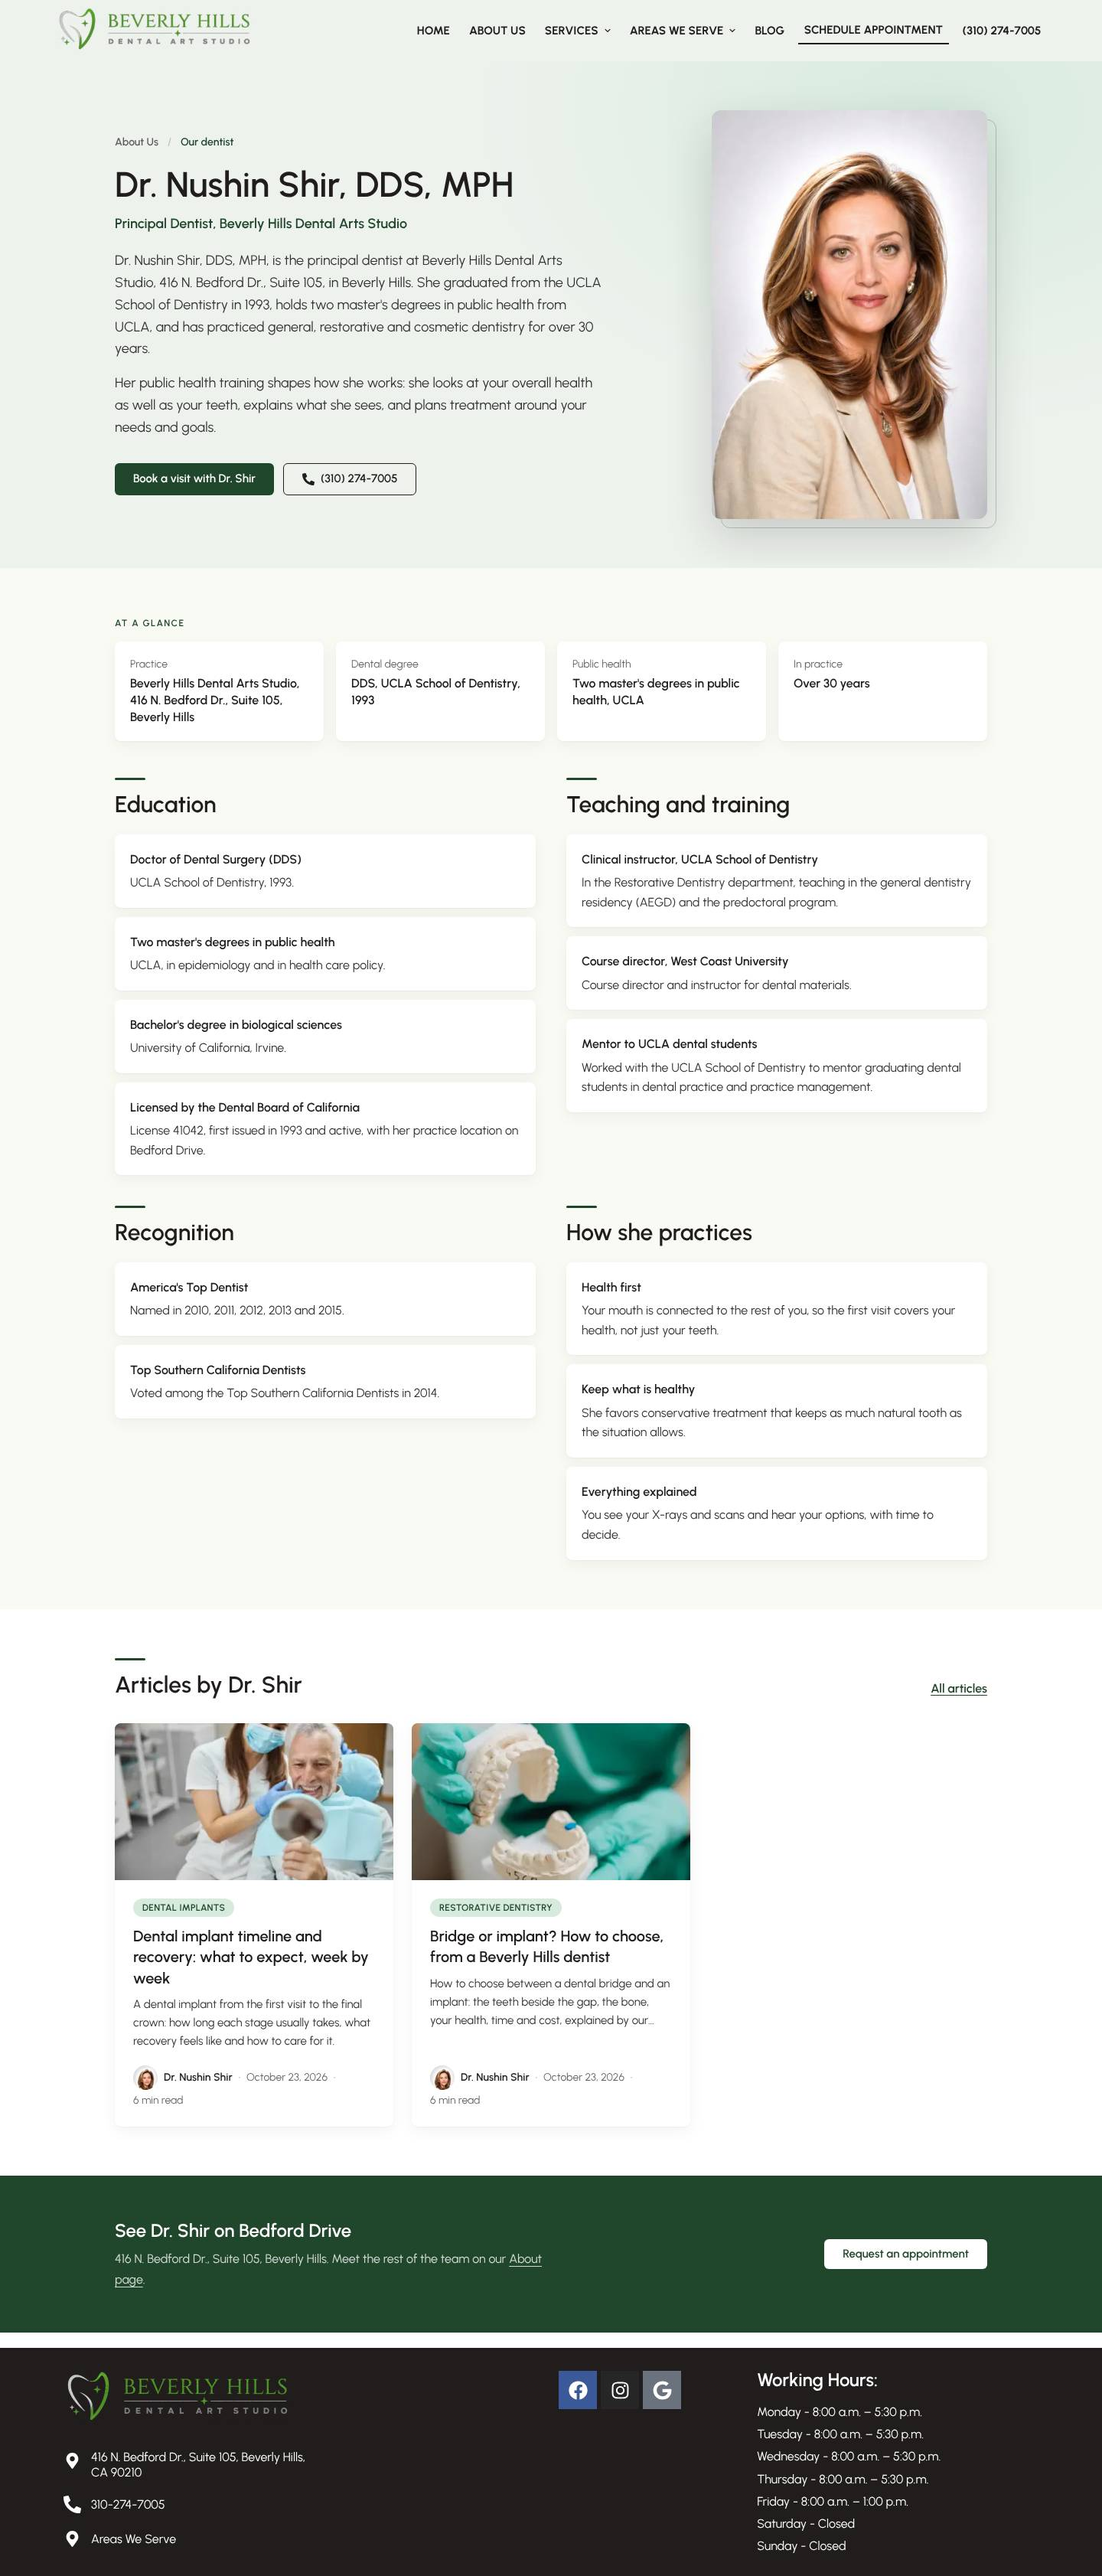
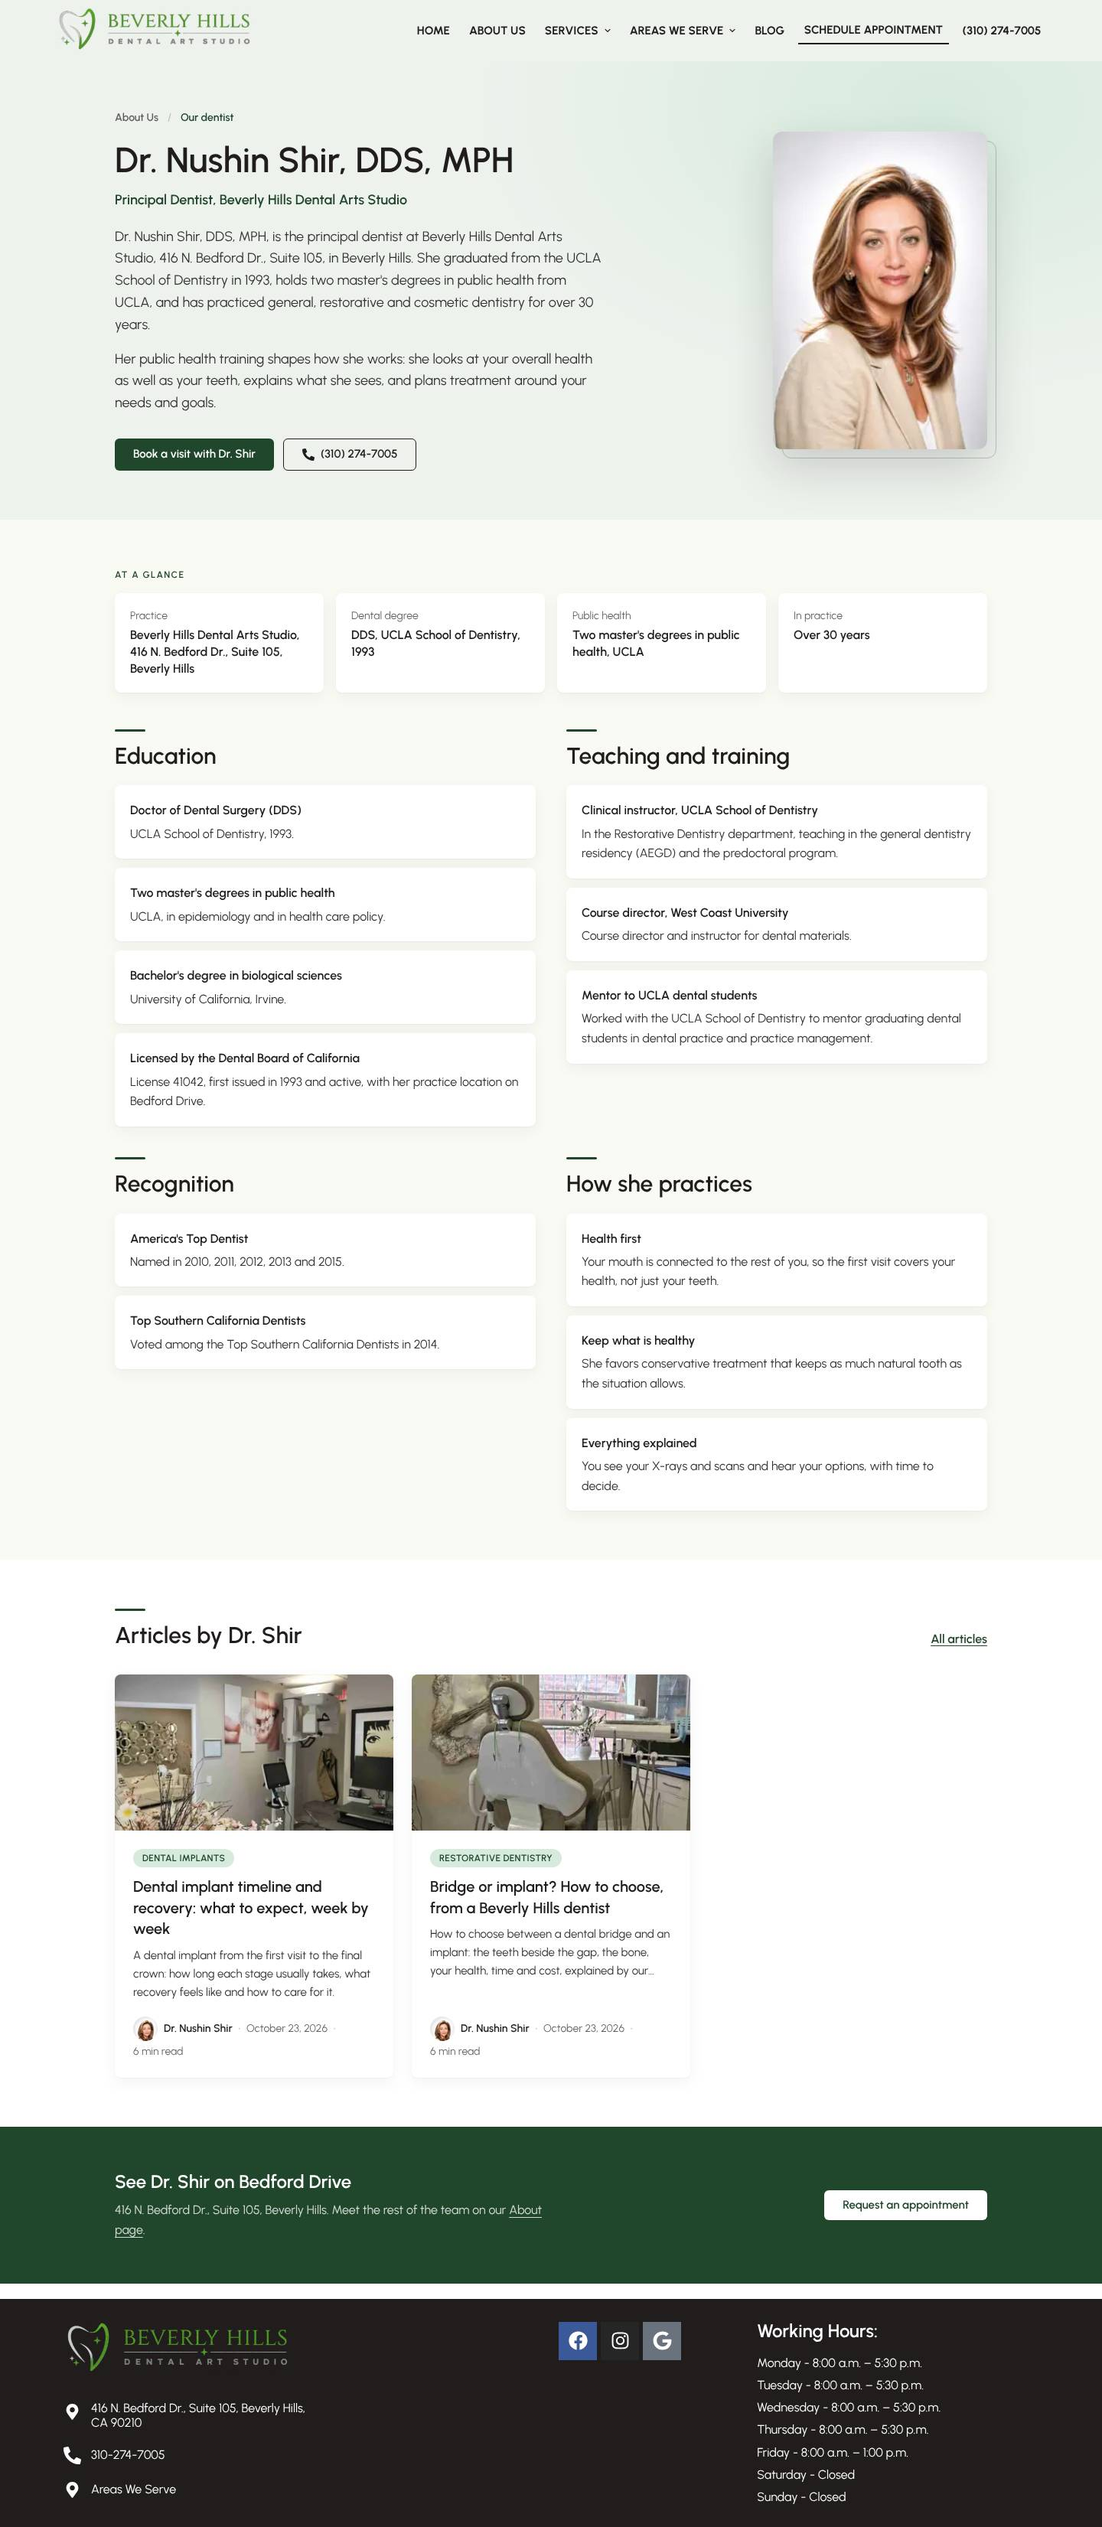
TTR-921: Dr. Shir's original headshot everywhere (Drive "Shir Headshot.PNG", unedited), in place of the AI-edited copy
Profile, About page, author cards, blog bylines and the Person schema image all use it; the About page takes it over the photo saved in /cms. It is 216 x 320, so it is shown near its real size, not stretched. The old file's addresses redirect to it.

Claude-Session: https://claude.ai/code/session_019NLb6eqSBCq18BrXLGwSCq

diff --git a/app/(site)/about-us/dr-nushin-shir/page.tsx b/app/(site)/about-us/dr-nushin-shir/page.tsx
@@ -33,7 +33,7 @@ export default async function DrShirPage() {
 
       <section className="relative overflow-hidden bg-header">
         <div aria-hidden="true" className="pointer-events-none absolute inset-0 bg-[radial-gradient(60%_90%_at_85%_10%,rgb(214_234_221_/_0.95),transparent_70%)]" />
-        <div className="container-box relative grid gap-10 py-10 lg:grid-cols-[minmax(0,1fr)_minmax(0,360px)] lg:items-center lg:gap-16 lg:py-16">
+        <div className="container-box relative grid gap-10 py-10 lg:grid-cols-[minmax(0,1fr)_minmax(0,280px)] lg:items-center lg:gap-16 lg:py-16">
           <div>
             <p className="post-rise flex flex-wrap items-center gap-3 text-sm" style={css(0)}>
               <Link href="/about-us/" className="font-semibold text-ink/70 transition-colors hover:text-brand">
@@ -65,10 +65,10 @@ export default async function DrShirPage() {
               </a>
             </div>
           </div>
-          <div className="relative mx-auto w-full max-w-[360px]">
+          <div className="relative mx-auto w-full max-w-[280px]">
             <div aria-hidden="true" className="absolute -bottom-3 -right-3 h-full w-full rounded-xl border border-brand/25" />
-            <div className="relative aspect-[690/1024] overflow-hidden rounded-xl bg-dropdown shadow-[0_24px_60px_rgb(33_29_29_/_0.18)]">
-              <Image src={p.photo.src} alt={p.photo.alt} fill loading="eager" fetchPriority="high" sizes="(min-width: 1024px) 360px, 90vw" className="post-settle object-cover object-top" />
+            <div className="relative aspect-[216/320] overflow-hidden rounded-xl bg-dropdown shadow-[0_24px_60px_rgb(33_29_29_/_0.18)]">
+              <Image src={p.photo.src} alt={p.photo.alt} fill loading="eager" fetchPriority="high" sizes="280px" className="post-settle object-cover object-top" />
             </div>
           </div>
         </div>

diff --git a/lib/data/profile.ts b/lib/data/profile.ts
@@ -1,7 +1,7 @@
 /*
  * Dr. Shir's profile page (/about-us/dr-nushin-shir/), TTR-921. Every fact is from her own bio (ClickUp, "Dr-Nushin-Shir-Bio")
  * and the client brain, and matches the About page. Her earlier practices are left out on purpose: Google's AI answers mixed
- * them up with this one. "TODO(TTR-921)" marks a line waiting on Dr. Shir or Kia.
+ * them up with this one.
  */
 import { images } from "./images.ts";
 import type { Img } from "../types";
@@ -26,8 +26,7 @@ export const drShirProfile: {
   name: "Dr. Nushin Shir",
   credentials: "DDS, MPH",
   role: "Principal Dentist, Beverly Hills Dental Arts Studio",
-  // TODO(TTR-921): Kia to confirm the photo. This file reached the old site as "ChatGPT-Image-Sep-3-2026…"; her original is
-  // "Shir Headshot.PNG" in the client's Drive (Visuals).
+  // Her original, unedited headshot (Drive > Visuals > "Shir Headshot.PNG"; Ben, Oct 26).
   photo: { ...images.drNushinShir, alt: "Dr. Nushin Shir, DDS, MPH" },
   intro: [
     "Dr. Nushin Shir, DDS, MPH, is the principal dentist at Beverly Hills Dental Arts Studio, 416 N. Bedford Dr., Suite 105, in Beverly Hills. She graduated from the UCLA School of Dentistry in 1993, holds two master's degrees in public health from UCLA, and has practiced general, restorative and cosmetic dentistry for over 30 years.",

diff --git a/lib/data/images.ts b/lib/data/images.ts
@@ -43,7 +43,8 @@ export const images = {
   smileResult3: { src: "/images/results/smile-result-3.jpg", alt: "Before and after smile result with a replaced front tooth", width: 1005, height: 1005 },
   carlosTorres: { src: "/images/team/carlos-torres.jpg", alt: "Carlos Torres, operations leader", width: 819, height: 1024 },
   drDanielCharlton: { src: "/images/team/dr-daniel-charlton.webp", alt: "Dr. Daniel Charlton, general and cosmetic dentist", width: 510, height: 537 },
-  drNushinShir: { src: "/images/team/dr-nushin-shir.jpg", alt: "Dr. Nushin Shir, DDS, MPH", width: 690, height: 1024 },
+  // Her original headshot from the client's Drive (Visuals > "Shir Headshot.PNG"), unedited. TTR-921, Oct 26, 2026.
+  drNushinShir: { src: "/images/team/dr-nushin-shir-headshot.png", alt: "Dr. Nushin Shir, DDS, MPH", width: 216, height: 320 },
   nicoleVazquez: { src: "/images/team/nicole-vazquez.jpg", alt: "Nicole Vazquez, dental hygienist", width: 768, height: 1024 },
   teamPhoto: { src: "/images/team/team-photo.jpg", alt: "The Beverly Hills Dental Art Studio team", width: 1536, height: 1024 },
   thanysM: { src: "/images/team/thanys-m.jpg", alt: "Thanys M., practice professional", width: 1015, height: 1024 },

diff --git a/app/(site)/about-us/page.tsx b/app/(site)/about-us/page.tsx
@@ -54,9 +54,14 @@ export default async function AboutPage() {
               </p>
             ) : null}
           </div>
-          {m.photo ? (
+          {m.photo && /shir/i.test(m.name) ? (
+            // Her original headshot is small (216 x 320), so it is shown near its real size on a light panel, not stretched.
+            <div className="flex items-center justify-center bg-paper px-6 py-12 md:w-1/2">
+              <Image src={m.photo.src} alt={drShirProfile.photo.alt} width={m.photo.width} height={m.photo.height} sizes="280px" className="h-auto w-full max-w-[280px] rounded-xl shadow-[0_24px_60px_rgb(33_29_29_/_0.18)]" />
+            </div>
+          ) : m.photo ? (
             <div className="md:w-1/2">
-              <Image src={m.photo.src} alt={/shir/i.test(m.name) ? drShirProfile.photo.alt : m.photo.alt || m.name} width={m.photo.width} height={m.photo.height} sizes="(min-width: 768px) 50vw, 100vw" className="h-auto w-full" />
+              <Image src={m.photo.src} alt={m.photo.alt || m.name} width={m.photo.width} height={m.photo.height} sizes="(min-width: 768px) 50vw, 100vw" className="h-auto w-full" />
             </div>
           ) : null}
         </section>

diff --git a/lib/content.ts b/lib/content.ts
@@ -13,6 +13,7 @@ import {
 } from "@/lib/data/pages";
 import { fallbackCategories, fallbackServices, fallbackServicesHub } from "@/lib/data/services";
 import { fallbackAreaPages, fallbackAreasHub } from "@/lib/data/areas";
+import { drShirProfile } from "@/lib/data/profile";
 import type {
   AboutContent,
   AreaPage,
@@ -230,7 +231,9 @@ export const getTeam = cache(async (): Promise<TeamMember[]> => {
     ["teamMember"],
   );
   if (!cms?.length) return fallbackTeam;
-  return cms.map((m) => merge(fallbackTeam.find((f) => f.name === m.name) ?? { id: m.id, name: m.name, heading: m.heading, bio: [], order: m.order }, m));
+  const team = cms.map((m) => merge(fallbackTeam.find((f) => f.name === m.name) ?? { id: m.id, name: m.name, heading: m.heading, bio: [], order: m.order }, m));
+  // Dr. Shir's photo saved in /cms is an AI-edited copy; her original headshot is used whatever the CMS holds (TTR-921).
+  return team.map((m) => (/shir/i.test(m.name) ? { ...m, photo: drShirProfile.photo } : m));
 });
 
 /**
